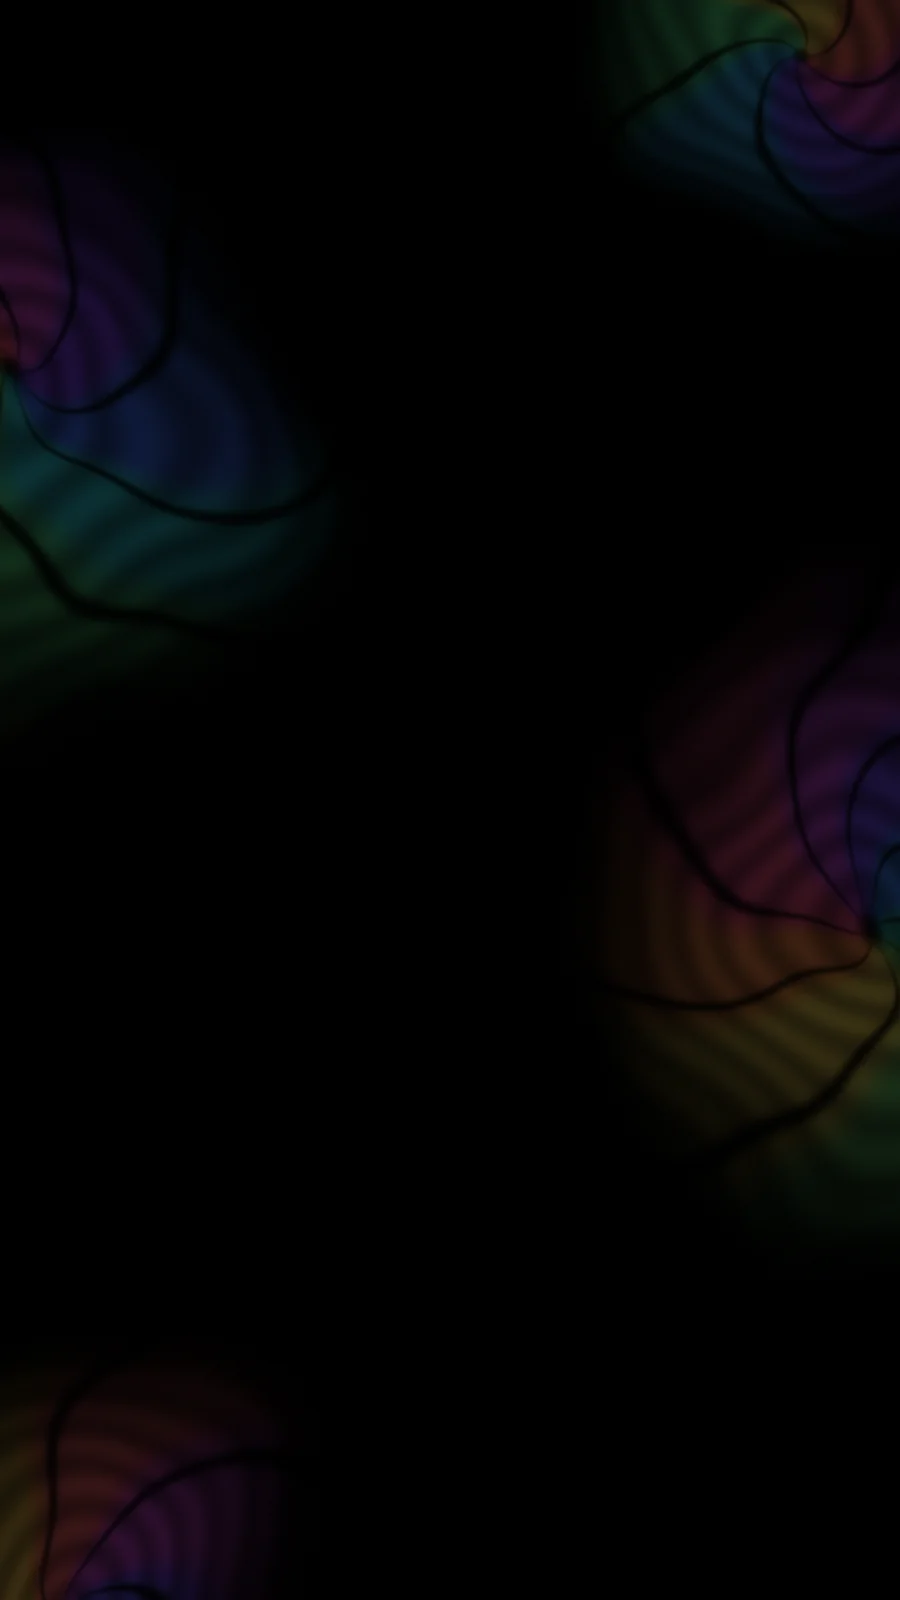
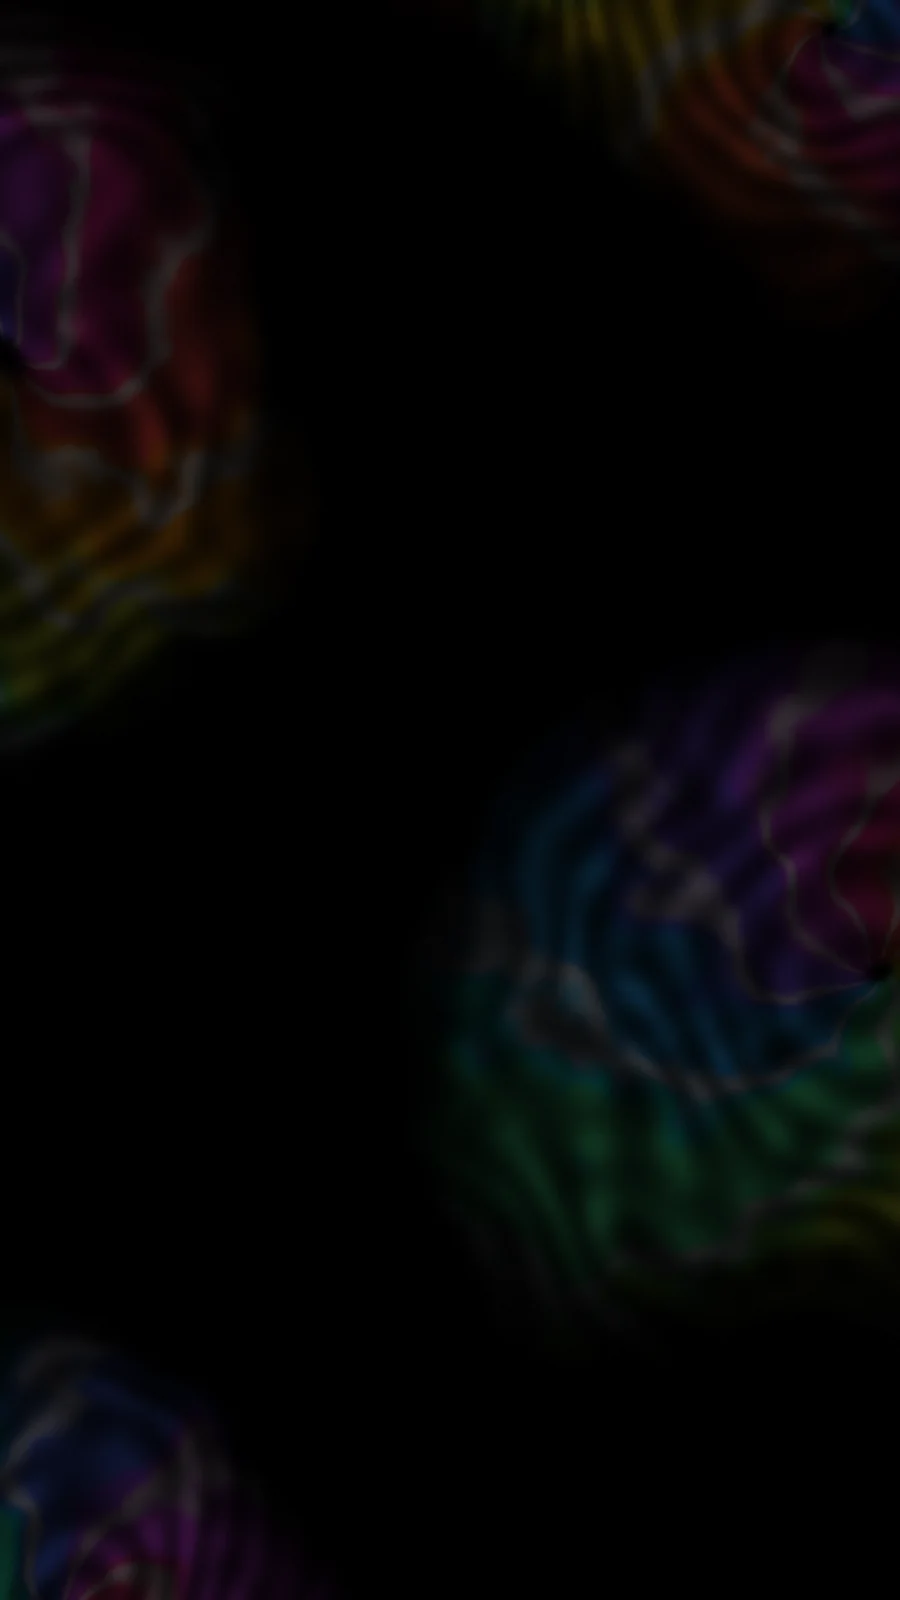
Make the tie-dye look like tie-dye
The old picture was dim coloured rings with dark lines, and the warm hues went
olive and brown once dimmed. build_tiedye.py now renders the things that make
real tie-dye read as tie-dye:

- Folds are pale, undyed streaks, and the dye thins to a pastel beside them. The
  old fold lines were dark.
- Neon dyes (hot pink, red, orange, yellow, lime, turquoise, blue, violet, magenta)
  that bleed into the next colour around the wheel.
- Mottled dye where it pooled, uneven dye edges, and fold lines that wander.
- Bigger rosettes that fill the side margins; two rosettes that meet blend by a
  soft maximum, so there is no hard seam and the hues do not turn muddy.
- Contrast 1.7 keeps thick dye bold and thin dye dim; the grain is the same in
  every channel, so it does not tint the black.

BRIGHTNESS goes to 0.20 so the overall faintness stays where it was approved
(brightest pixel 65 of 255, was 62; mean 12 vs 9, because the new picture
covers more of the margin). Both pictures are rebuilt.

diff --git a/build_tiedye.py b/build_tiedye.py
@@ -1,14 +1,16 @@
-"""Render the page backgrounds, assets/tiedye.webp and assets/tiedye-portrait.webp: a very faint tie-dye on black.
+"""Render the page backgrounds, assets/tiedye.webp and assets/tiedye-portrait.webp: a faint tie-dye on black.
 
 Usage (needs numpy, scipy and Pillow):
     python build_tiedye.py
 
 The pictures are made once, here, so the site ships two small images and no script. A few spiral-folded rosettes
-(the classic tie-dye shape) sit near the edges, where the page's content does not cover them: each wedge takes the
-next dye colour around the colour wheel, wedges are separated by dark resist lines, and the edges bleed.
-Coordinates are bent by smooth noise so the lines wander like hand-dyed cloth. Everything is then dimmed by
-BRIGHTNESS, so on the black page it is a hint of colour, not a colour. site.css picks the landscape or the portrait
-picture by screen shape. Output is deterministic: the same SEED gives the same files.
+(the classic tie-dye shape) sit at the sides, where the page's content does not cover them. What makes it read as
+tie-dye rather than as coloured rings:
+  - each wedge is a bold dye colour, and each colour bleeds into the next one around the colour wheel;
+  - the folds are pale, undyed streaks, and the dye thins to a pastel next to them;
+  - the dye is mottled where it pooled, and the lines and edges wander and feather like dye wicking through cloth.
+Everything is dimmed by BRIGHTNESS, so on the black page it stays a hint of colour. site.css picks the landscape or
+the portrait picture by screen shape. Output is deterministic: the same SEED gives the same files.
 """
 
 from __future__ import annotations
@@ -22,13 +24,13 @@ from scipy import ndimage
 
 SITE: Final = Path(__file__).resolve().parent
 SEED: Final = 5
-BRIGHTNESS: Final = 0.25  # 1.0 is full-strength dye
+BRIGHTNESS: Final = 0.20  # 1.0 is full-strength dye
 
 
 class Rosette(NamedTuple):
     x: float  # centre, as a fraction of the picture width
     y: float  # centre, as a fraction of the picture height
-    radius: float  # pixels; the dye fades out beyond this
+    radius: float  # pixels; the dye fades out towards this distance
     wedges: int  # folds around the centre
     twist: float  # how far the wedges curl into a spiral, in wedges per doubling of distance from the centre
     hue_shift: float  # where on the colour wheel the first wedge starts, 0 to 1
@@ -43,30 +45,44 @@ class Layout(NamedTuple):
 
 LAYOUTS: Final = (
     Layout("tiedye.webp", 1600, 900, (
-        Rosette(0.02, 0.38, 480, 8, 1.2, 0.00),
-        Rosette(0.98, 0.64, 520, 8, -1.1, 0.40),
-        Rosette(0.94, 0.00, 340, 6, 1.0, 0.70),
-        Rosette(0.07, 1.00, 380, 6, -1.0, 0.22),
+        Rosette(0.00, 0.30, 720, 8, 1.3, 0.00),
+        Rosette(1.00, 0.70, 760, 8, -1.2, 0.38),
+        Rosette(0.92, -0.04, 480, 6, 1.0, 0.66),
+        Rosette(0.10, 1.04, 500, 6, -1.0, 0.20),
     )),
     Layout("tiedye-portrait.webp", 900, 1600, (
-        Rosette(0.00, 0.26, 340, 8, 1.2, 0.00),
-        Rosette(1.00, 0.58, 380, 8, -1.1, 0.40),
-        Rosette(0.92, 0.01, 260, 6, 1.0, 0.70),
-        Rosette(0.06, 1.00, 300, 6, -1.0, 0.22),
+        Rosette(0.00, 0.25, 440, 8, 1.3, 0.00),
+        Rosette(1.00, 0.60, 470, 8, -1.2, 0.38),
+        Rosette(0.95, 0.00, 300, 6, 1.0, 0.66),
+        Rosette(0.05, 1.00, 340, 6, -1.0, 0.20),
     )),
 )
 
-# Dye colours evenly around the colour wheel (sRGB): violet, blue, turquoise, green, yellow, orange, red, magenta.
+# Dye colours evenly around the colour wheel (sRGB): hot pink, red, orange, yellow, lime, turquoise, blue, violet, magenta.
 DYES: Final = np.array([
-    (122, 62, 230),
-    (64, 108, 240),
-    (48, 200, 214),
-    (84, 214, 120),
-    (238, 220, 84),
-    (246, 146, 60),
-    (238, 78, 108),
-    (200, 66, 190),
+    (255, 40, 150),
+    (255, 64, 70),
+    (255, 122, 16),
+    (255, 206, 24),
+    (124, 236, 64),
+    (24, 222, 200),
+    (44, 124, 255),
+    (150, 72, 255),
+    (226, 60, 232),
 ])
+UNDYED: Final = np.array((255, 244, 250))  # the cloth where the dye did not reach
+RAGGED: Final = 0.09  # how far folds wander, in wedges
+CONTRAST: Final = 1.7  # above 1 darkens the thin dye and keeps the thick dye bold
+MERGE: Final = 6.0  # where rosettes overlap, the stronger one dominates; higher means a narrower blend
+
+
+class Fields(NamedTuple):
+    """Smooth noise shared by every rosette, zero mean and unit spread."""
+
+    wobble: np.ndarray  # slow drift of the scalloped rings
+    ragged: np.ndarray  # wander of the fold lines
+    extent: np.ndarray  # how far the dye reaches, so its edge is uneven
+    mottle: np.ndarray  # dye pooling
 
 
 def smooth_noise(rng: np.random.Generator, cell: float, width: int, height: int) -> np.ndarray:
@@ -92,43 +108,52 @@ def dye_colour(position: np.ndarray) -> np.ndarray:
     return np.stack([np.interp(around, stops, wrapped[:, channel]) for channel in range(3)], axis=-1)
 
 
-def rosette_layer(layout: Layout, columns: np.ndarray, rows: np.ndarray, rosette: Rosette, wobble: np.ndarray) -> tuple[np.ndarray, np.ndarray]:
-    """The dye colour and how strongly it is dyed, at every pixel, for one rosette."""
+def rosette_layer(layout: Layout, columns: np.ndarray, rows: np.ndarray, rosette: Rosette, fields: Fields) -> tuple[np.ndarray, np.ndarray]:
+    """The colour and how strongly it shows, at every pixel, for one rosette."""
     from_x = columns - rosette.x * layout.width
     from_y = rows - rosette.y * layout.height
     distance = np.hypot(from_x, from_y)
     turn = np.arctan2(from_y, from_x) / (2.0 * np.pi)
-    phase = rosette.wedges * turn + rosette.twist * np.log1p(distance / (0.2 * rosette.radius))
+    phase = rosette.wedges * turn + rosette.twist * np.log1p(distance / (0.2 * rosette.radius)) + RAGGED * fields.ragged
     wedge = np.floor(phase)
     across = phase - wedge  # 0 to 1 across one wedge
+    from_fold = np.minimum(across, 1.0 - across)  # 0 on a fold, 0.5 in the middle of a wedge
 
-    # A wedge is one colour that bleeds into the next one near its far edge; a dark line marks the fold.
-    colour = dye_colour((wedge + smoothstep(0.62, 1.0, across)) / rosette.wedges + rosette.hue_shift)
-    fold = smoothstep(0.0, 0.09, across) * smoothstep(1.0, 0.91, across)
-    rings = 0.8 + 0.2 * np.cos(2.0 * np.pi * distance / (0.14 * rosette.radius) + 3.0 * wobble)
-    fade = smoothstep(1.0, 0.3, distance / rosette.radius)  # full dye near the middle, none past the radius
-    centre = smoothstep(0.0, 0.06 * rosette.radius, distance)  # the undyed spot where the cloth was tied
-    return colour, fade * rings * fold * centre
+    # A wedge is one dye colour that bleeds into the next one near its far edge. Along a fold the cloth is
+    # undyed, and the dye thins to a pastel on either side of it.
+    dye = dye_colour((wedge + smoothstep(0.55, 1.0, across)) / rosette.wedges + rosette.hue_shift)
+    pale = 0.8 * (1.0 - smoothstep(0.015, 0.2, from_fold))
+    colour = dye * (1.0 - pale)[..., None] + UNDYED * pale[..., None]
+
+    rings = 0.84 + 0.16 * np.cos(2.0 * np.pi * distance / (0.14 * rosette.radius) + 3.0 * fields.wobble)
+    reach = smoothstep(1.0, 0.5, distance * (1.0 + 0.16 * fields.extent) / rosette.radius)  # full dye near the middle
+    tied = smoothstep(0.0, 0.05 * rosette.radius, distance)  # the undyed spot where the cloth was tied
+    pooling = np.clip(0.9 + 0.1 * fields.mottle, 0.5, 1.15)
+    return colour, (reach * rings * pooling * tied) ** CONTRAST
 
 
 def render(layout: Layout) -> np.ndarray:
     rng = np.random.default_rng(SEED)
     rows, columns = np.mgrid[0 : layout.height, 0 : layout.width].astype(np.float64)
-    noise = lambda cell: smooth_noise(rng, cell, layout.width, layout.height)  # noqa: E731
-    bent_columns = columns + 26.0 * noise(240) + 9.0 * noise(80)
-    bent_rows = rows + 26.0 * noise(240) + 9.0 * noise(80)
-    wobble = noise(160)
 
-    layers = [rosette_layer(layout, bent_columns, bent_rows, rosette, wobble) for rosette in layout.rosettes]
+    def noise(cell: float) -> np.ndarray:
+        return smooth_noise(rng, cell, layout.width, layout.height)
+
+    bent_columns = columns + 22.0 * noise(240) + 8.0 * noise(70)
+    bent_rows = rows + 22.0 * noise(240) + 8.0 * noise(70)
+    fields = Fields(wobble=noise(160), ragged=noise(38) + 0.25 * noise(14), extent=noise(300), mottle=noise(30))
+
+    layers = [rosette_layer(layout, bent_columns, bent_rows, rosette, fields) for rosette in layout.rosettes]
     colours = np.stack([colour for colour, _ in layers])
     strengths = np.stack([strength for _, strength in layers])
-    winner = strengths.argmax(axis=0)  # where two rosettes meet, the stronger dye shows; hues never muddy together
-    dye = np.take_along_axis(colours, winner[None, ..., None], axis=0)[0] * strengths.max(axis=0)[..., None]
-    bled = 0.62 * dye + 0.38 * ndimage.gaussian_filter(dye, sigma=(7, 7, 0))
-    bled = ndimage.gaussian_filter(bled, sigma=(1.2, 1.2, 0))
+    weights = strengths**MERGE  # a soft maximum: the strongest rosette sets the colour, with no hard seam where two meet
+    colour = (colours * weights[..., None]).sum(axis=0) / (weights.sum(axis=0)[..., None] + 1e-9)
+    dye = colour * strengths.max(axis=0)[..., None]
+    bled = 0.72 * dye + 0.28 * ndimage.gaussian_filter(dye, sigma=(5, 5, 0))
+    bled = ndimage.gaussian_filter(bled, sigma=(0.9, 0.9, 0))
 
     picture = bled * BRIGHTNESS
-    picture += rng.normal(0.0, 0.9, picture.shape)  # grain, so dark gradients do not band
+    picture += rng.normal(0.0, 0.9, picture.shape[:2])[..., None]  # grain, the same in every channel, so dark gradients do not band
     return np.clip(picture, 0, 255).astype(np.uint8)
 
 
